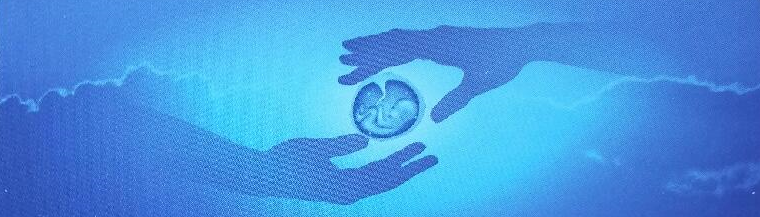
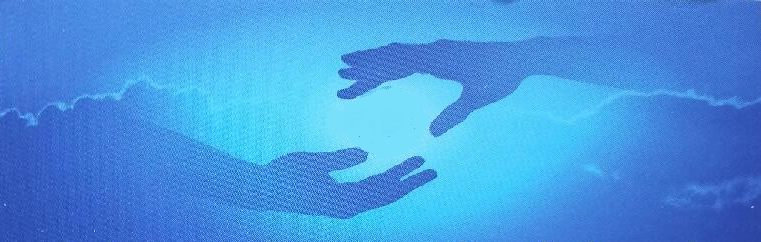
wsip

diff --git a/src/CoreBundle/Resources/public/css/style.css b/src/CoreBundle/Resources/public/css/style.css
@@ -22,8 +22,8 @@ body {
 h2 {
     color: #90c2ff;
     font-weight: bold;
-    margin-top:120px;
-    margin-bottom:60px;
+    margin-top: 120px;
+    margin-bottom: 60px;
 }
 
 .row-eq-height {
@@ -54,8 +54,26 @@ h2 {
     margin-bottom: 40px;
 }
 
+#encadre {
+    text-align: center;
+    border: 2px solid #F8D26F;
+    margin-bottom: 25px;
+    margin-top: 15px;
+    background: url('../images/banniere.png') no-repeat;
+    background-size: 100% 100%;
+    height: 25vw;
+    padding-top:86px;
+}
+
 @media screen and (min-width: 768px) {
     .navbar-nav li {
         width: 25%;
+    }
+}
+
+@media screen and (max-width: 768px) {
+    #encadre {
+        height: 40vw;
+        padding-top:0px;
     }
 }
